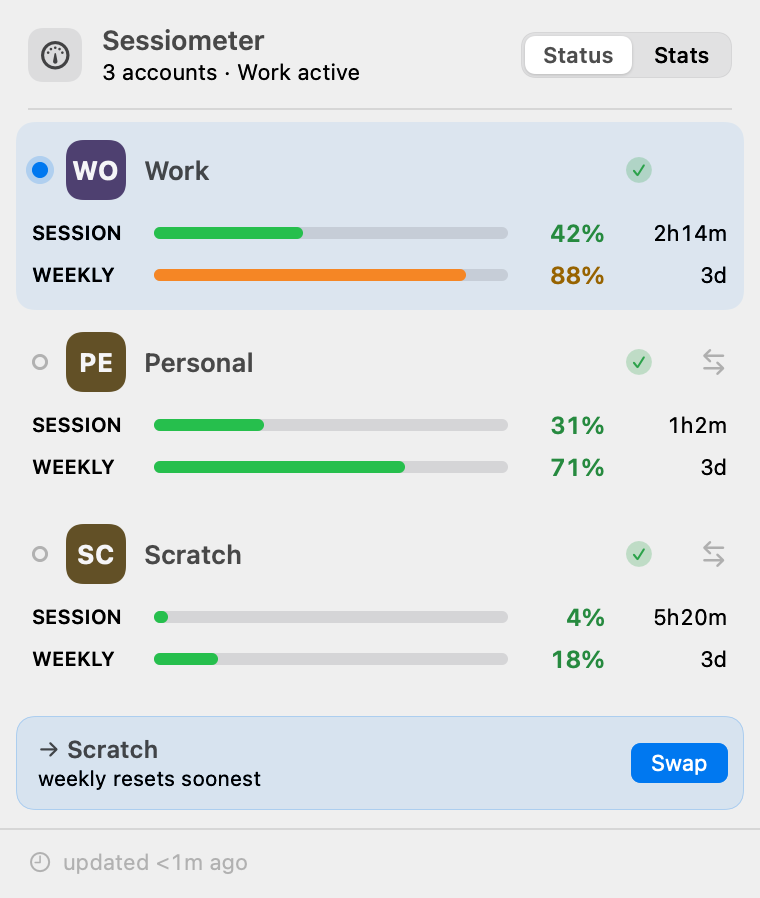
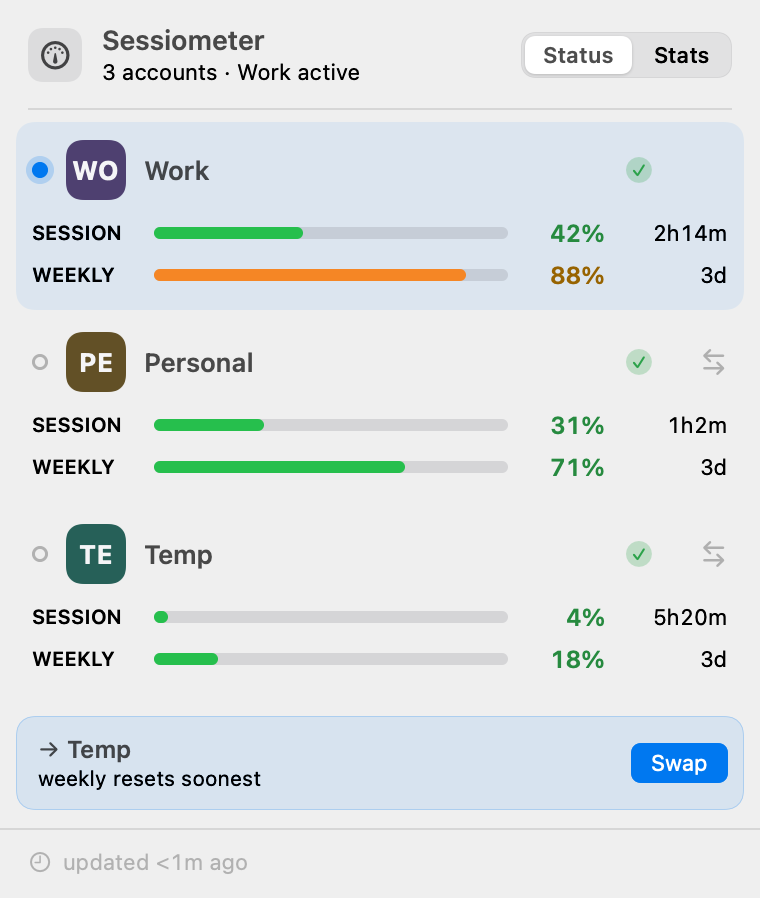
(test) menubar: re-pick the healthy fixture's 3rd label so all three identity colours are distinct (#723)
`RenderPanelTool`'s healthy roster was `Work`/`Personal`/`Scratch`. Per-account
identity colour (#445) is FNV-1a over the trimmed `label` mod the 8-slot
`accountFillPalette`, and under that hash `Personal` and `Scratch` BOTH land on
slot 5 (ochre) — so the committed `panel-healthy-{light,dark}.png` rendered two
of three rows in the same identity colour, a weaker oracle for #445's central
per-account-disambiguation claim than it could be. (Nothing user-facing is wrong:
#445 never uses colour as the sole cue — always paired with the monogram + label,
WCAG 1.4.1 — so the collision is honest app behaviour; the cost is oracle quality.)

Re-pick the fixture's third account `Scratch` -> `Temp`, which hashes to slot 7
(teal) — distinct from Work-violet (slot 0) and Personal-ochre (slot 5) — so the
committed oracle now demonstrates the per-account cue across three visibly-distinct
colours. Applied consistently across the DEBUG render fixtures (`RenderPanelTool`),
the DEBUG stats preview fixture + its decode test (`PanelStatsModel` /
`StatsTests`, whose wire keys must match the roster identities by exact label),
and the design README's roster reference + a new "Expected reconciliations" note.
No production behaviour is touched — the hash/palette in `StatusPanelFormat.swift`
is unchanged; only fixture/test/doc data and the two regenerated PNGs.

The mock (`menubar-preview.html`) keeps its illustrative `Scratch` label — its
[…]

Changed region(s): [[0.0605, 0.5612, 0.3329, 0.6548], [0.0908, 0.8107, 0.2118, 0.8419]]

diff --git a/apps/menubar/Sources/RenderPanelTool.swift b/apps/menubar/Sources/RenderPanelTool.swift
@@ -45,10 +45,13 @@ enum RenderPanelTool {
         let now = Int64(Date().timeIntervalSince1970)
         let day: Int64 = 86_400
 
-        // The mock's "Healthy · Status" example rows (same labels + percents, so the render is directly
-        // comparable): Work active 42/88, Personal 31/71, Scratch 4/18 — next swap → Scratch. The
-        // provider secondary line (#173) and the "Last swap …" footer (#88) are the documented Wave-1
-        // reconciliations and correctly do NOT appear.
+        // The mock's "Healthy · Status" example rows — same percents + layout, so the render is directly
+        // comparable: Work active 42/88, Personal 31/71, Temp 4/18 — next swap → Temp. The third account is
+        // "Temp" where the mock illustrates "Scratch": re-picked so all three labels hash to DISTINCT #445
+        // palette slots (the mock's "Personal" + "Scratch" both land on slot 5 / ochre under the shared 8-slot
+        // label hash), so the committed oracle shows three visibly-distinct identity colours — violet / ochre /
+        // teal (#709). The provider secondary line (#173) and the "Last swap …" footer (#88) are the documented
+        // Wave-1 reconciliations and correctly do NOT appear.
         let rows = [
             AccountRow(label: "Work", isActive: true, isEnabled: true, isQuarantined: false,
                        isRecovering: false, auth: .healthy, sessionPct: 42, weeklyPct: 88,
@@ -58,7 +61,7 @@ enum RenderPanelTool {
                        isRecovering: false, auth: .healthy, sessionPct: 31, weeklyPct: 71,
                        sessionResetsAt: now + 3600 + 2 * 60, weeklyResetsAt: now + 3 * day,
                        weeklyExhausted: false, isNextSwapTarget: false, blindActive: nil),
-            AccountRow(label: "Scratch", isActive: false, isEnabled: true, isQuarantined: false,
+            AccountRow(label: "Temp", isActive: false, isEnabled: true, isQuarantined: false,
                        isRecovering: false, auth: .healthy, sessionPct: 4, weeklyPct: 18,
                        sessionResetsAt: now + 5 * 3600 + 20 * 60, weeklyResetsAt: now + 3 * day,
                        weeklyExhausted: false, isNextSwapTarget: true, blindActive: nil),
@@ -97,14 +100,14 @@ enum RenderPanelTool {
                                            sessionPct: 14, weeklyPct: 100, sessionResetsAt: now + 2 * 3600,
                                            weeklyResetsAt: now + 2 * day + 4 * 3600, weeklyExhausted: true,
                                            isNextSwapTarget: false, blindActive: nil)
-        let exhaustedScratch = AccountRow(label: "Scratch", isActive: false, isEnabled: true,
-                                          isQuarantined: false, isRecovering: false, auth: .healthy,
-                                          sessionPct: 6, weeklyPct: 97, sessionResetsAt: now + 4 * 3600 + 50 * 60,
-                                          weeklyResetsAt: now + 3 * day + 3600, weeklyExhausted: true,
-                                          isNextSwapTarget: false, blindActive: nil)
+        let exhaustedTemp = AccountRow(label: "Temp", isActive: false, isEnabled: true,
+                                       isQuarantined: false, isRecovering: false, auth: .healthy,
+                                       sessionPct: 6, weeklyPct: 97, sessionResetsAt: now + 4 * 3600 + 50 * 60,
+                                       weeklyResetsAt: now + 3 * day + 3600, weeklyExhausted: true,
+                                       isNextSwapTarget: false, blindActive: nil)
         let blindCorneredRows = [blindWork(BlindActive(blindSecs: 1080, lastKnownSessionPct: 92,
                                                        autoProtectionDegraded: true)),
-                                 exhaustedPersonal, exhaustedScratch]
+                                 exhaustedPersonal, exhaustedTemp]
 
         // The panel-rendered states (the fuller 9-state fidelity's remaining facets are #169 siblings).
         // `stale` and `disconnected` retain the last-good roster (disconnected dims it); the account-less
@@ -113,19 +116,19 @@ enum RenderPanelTool {
         // stale as intended.
         let fixtures = [
             Fixture(name: "healthy", state: .connected, rows: rows,
-                    nextSwap: .target(to: "Scratch", reason: .soonestReset(resetsAt: now + 3 * day)),
+                    nextSwap: .target(to: "Temp", reason: .soonestReset(resetsAt: now + 3 * day)),
                     generatedAt: now - 12),
             // #704: the healthy roster's STATS tab — the ONE fixture seeded to `.stats`/`.loaded` (every other
             // renders the Status glance). Reuses the healthy roster so the Stats rows join the same
-            // Work/Personal/Scratch identities (active = Work) the mock's `healthy-stats-*` frames show; the
+            // Work/Personal/Temp identities (active = Work) the mock's `healthy-stats-*` frames show; the
             // loaded series rides `statsWire`. State stays `.connected` because `StatusPanelView` offers the
             // Stats seg only over a live roster (`.connected`/`.stale`) — a Stats tab on a degraded daemon
             // could only fail. `next_swap` is inert here (the Stats tab renders no footer).
             Fixture(name: "stats", state: .connected, rows: rows,
-                    nextSwap: .target(to: "Scratch", reason: .soonestReset(resetsAt: now + 3 * day)),
+                    nextSwap: .target(to: "Temp", reason: .soonestReset(resetsAt: now + 3 * day)),
                     generatedAt: now - 12, statsWire: PanelStatsModel.loadedPreviewFixture),
             Fixture(name: "stale", state: .stale, rows: rows,
-                    nextSwap: .target(to: "Scratch", reason: .soonestReset(resetsAt: now + 3 * day)),
+                    nextSwap: .target(to: "Temp", reason: .soonestReset(resetsAt: now + 3 * day)),
                     generatedAt: now - 5400),
             Fixture(name: "disconnected", state: .disconnected(reason: "the daemon is not responding"),
                     rows: rows, nextSwap: nil, generatedAt: now - 240),
@@ -140,10 +143,10 @@ enum RenderPanelTool {
             // #571: the active-account blind row, OK + DEGRADED — a per-row modifier on a `.connected`
             // snapshot (fresh header/footer), rendered as the held session bar + auto-protection verdict.
             Fixture(name: "blind-ok", state: .connected, rows: blindOKRows,
-                    nextSwap: .target(to: "Scratch", reason: .soonestReset(resetsAt: now + 3 * day)),
+                    nextSwap: .target(to: "Temp", reason: .soonestReset(resetsAt: now + 3 * day)),
                     generatedAt: now - 12),
             Fixture(name: "blind-degraded", state: .connected, rows: blindDegradedRows,
-                    nextSwap: .target(to: "Scratch", reason: .soonestReset(resetsAt: now + 3 * day)),
+                    nextSwap: .target(to: "Temp", reason: .soonestReset(resetsAt: now + 3 * day)),
                     generatedAt: now - 12),
             // #572: the CORNERED blind row — blind + DEGRADED + no viable target. `next_swap` is
             // `.noViableTarget` (every spare weekly-exhausted, capacity back in 2d 4h), the signal the panel
@@ -223,7 +226,7 @@ enum RenderPanelTool {
     private static func faultFixtures(rows: [AccountRow], now: Int64, day: Int64) -> [Fixture] {
         // The healthy next-swap the roster would carry regardless — ranks 3-4 leave swapping alive, and even
         // where the daemon is blocked the panel still states its recommendation.
-        let nextSwap = NextSwap.target(to: "Scratch", reason: .soonestReset(resetsAt: now + 3 * day))
+        let nextSwap = NextSwap.target(to: "Temp", reason: .soonestReset(resetsAt: now + 3 * day))
         func fault(_ name: String, _ apply: (inout Fixture) -> Void) -> Fixture {
             var fixture = Fixture(name: name, state: .connected, rows: rows,
                                   nextSwap: nextSwap, generatedAt: now - 12)

diff --git a/apps/menubar/Sources/PanelStatsModel.swift b/apps/menubar/Sources/PanelStatsModel.swift
@@ -167,12 +167,12 @@ extension PanelStatsModel {
     /// `healthy-stats-{light,dark}` frames (`design/menubar-preview.html`):
     ///   • Work (active, saturated) — session 42 / 100%, weekly 88%, 42 cap-hits
     ///   • Personal (balanced)      — session 31 /  96%, weekly 71%, 11 cap-hits
-    ///   • Scratch (underused)      — session  4 /  22%, weekly 18%,  0 cap-hits
+    ///   • Temp (underused)         — session  4 /  22%, weekly 18%,  0 cap-hits
     ///   • aggregate — "All accounts ≥90% at once — 3 episodes (1h40m) · swaps 28 · last 7 days"
     ///
     /// `StatsWire` is Decodable-only (it mirrors the Rust `src/stats.rs` serializer), so the fixture is the
     /// wire's OWN JSON, DECODED — the exact path the live tab takes, only the bytes are pinned rather than
-    /// socketed. Handles are the roster's CAPITALISED labels ("Work"/"Personal"/"Scratch") so the Stats rows
+    /// socketed. Handles are the roster's CAPITALISED labels ("Work"/"Personal"/"Temp") so the Stats rows
     /// join `RenderPanelTool`'s roster identities — `StatusPanelFormat.orderedStatHandles` matches by exact
     /// label. `StatsTests` guards the decode + the card values, so a fixture that drifts off the wire contract
     /// fails a headless test rather than silently rendering the loading placeholder.
@@ -190,14 +190,14 @@ extension PanelStatsModel {
     /// line for reviewability — inter-token whitespace is legal JSON, so the decoder reads it identically.
     static let statsPreviewFixtureJSON = #"""
     {"schema":1,"window":{"start":1783200000,"end":1783804800,"label":"last 7 days","period":"week"},"accounts":[],"series":[
-    {"start":1783200000,"end":1783286400,"roster":{"swap_count":0,"swaps":{"session":0,"weekly":0,"manual":0,"forced":0,"emergency":0},"all_high_episodes":0,"all_high_secs":0},"accounts":{"Work":{"seen":1,"coverage":1.0,"coverage_class":"complete","session":{"mean":0.25,"peak":0.25,"p95":0.25},"weekly":{"mean":0.0,"peak":0.0,"p95":0.0},"cap_hits":0,"time_at_cap_secs":0,"contribution_share":0.0,"band":"low"},"Personal":{"seen":1,"coverage":1.0,"coverage_class":"complete","session":{"mean":0.12,"peak":0.12,"p95":0.12},"weekly":{"mean":0.0,"peak":0.0,"p95":0.0},"cap_hits":0,"time_at_cap_secs":0,"contribution_share":0.0,"band":"low"},"Scratch":{"seen":1,"coverage":1.0,"coverage_class":"complete","session":{"mean":0.1,"peak":0.1,"p95":0.1},"weekly":{"mean":0.0,"peak":0.0,"p95":0.0},"cap_hits":0,"time_at_cap_secs":0,"contribution_share":0.0,"band":"low"}}},
-    {"start":1783286400,"end":1783372800,"roster":{"swap_count":0,"swaps":{"session":0,"weekly":0,"manual":0,"forced":0,"emergency":0},"all_high_episodes":0,"all_high_secs":0},"accounts":{"Work":{"seen":1,"coverage":1.0,"coverage_class":"complete","session":{"mean":0.5,"peak":0.5,"p95":0.5},"weekly":{"mean":0.0,"peak":0.0,"p95":0.0},"cap_hits":0,"time_at_cap_secs":0,"contribution_share":0.0,"band":"low"},"Personal":{"seen":1,"coverage":1.0,"coverage_class":"complete","session":{"mean":0.37,"peak":0.37,"p95":0.37},"weekly":{"mean":0.0,"peak":0.0,"p95":0.0},"cap_hits":0,"time_at_cap_secs":0,"contribution_share":0.0,"band":"low"},"Scratch":{"seen":1,"coverage":1.0,"coverage_class":"complete","session":{"mean":0.12,"peak":0.12,"p95":0.12},"weekly":{"mean":0.0,"peak":0.0,"p95":0.0},"cap_hits":0,"time_at_cap_secs":0,"contribution_share":0.0,"band":"low"}}},
-    {"start":1783372800,"end":1783459200,"roster":{"swap_count":0,"swaps":{"session":0,"weekly":0,"manual":0,"forced":0,"emergency":0},"all_high_episodes":0,"all_high_secs":0},"accounts":{"Work":{"seen":1,"coverage":1.0,"coverage_class":"complete","session":{"mean":0.75,"peak":0.75,"p95":0.75},"weekly":{"mean":0.0,"peak":0.0,"p95":0.0},"cap_hits":0,"time_at_cap_secs":0,"contribution_share":0.0,"band":"low"},"Personal":{"seen":1,"coverage":1.0,"coverage_class":"complete","session":{"mean":0.55,"peak":0.55,"p95":0.55},"weekly":{"mean":0.0,"peak":0.0,"p95":0.0},"cap_hits":0,"time_at_cap_secs":0,"contribution_share":0.0,"band":"low"},"Scratch":{"seen":1,"coverage":1.0,"coverage_class":"complete","session":{"mean":0.22,"peak":0.22,"p95":0.22},"weekly":{"mean":0.0,"peak":0.0,"p95":0.0},"cap_hits":0,"time_at_cap_secs":0,"contribution_share":0.0,"band":"low"}}},
-    {"start":1783459200,"end":1783545600,"roster":{"swap_count":0,"swaps":{"session":0,"weekly":0,"manual":0,"forced":0,"emergency":0},"all_high_episodes":0,"all_high_secs":0},"accounts":{"Work":{"seen":1,"coverage":1.0,"coverage_class":"complete","session":{"mean":1.0,"peak":1.0,"p95":1.0},"weekly":{"mean":0.0,"peak":0.0,"p95":0.0},"cap_hits":0,"time_at_cap_secs":0,"contribution_share":0.0,"band":"low"},"Personal":{"seen":1,"coverage":1.0,"coverage_class":"complete","session":{"mean":0.96,"peak":0.96,"p95":0.96},"weekly":{"mean":0.0,"peak":0.0,"p95":0.0},"cap_hits":0,"time_at_cap_secs":0,"contribution_share":0.0,"band":"low"},"Scratch":{"seen":1,"coverage":1.0,"coverage_class":"complete","session":{"mean":0.14,"peak":0.14,"p95":0.14},"weekly":{"mean":0.0,"peak":0.0,"p95":0.0},"cap_hits":0,"time_at_cap_secs":0,"contribution_share":0.0,"band":"low"}}},
-    {"start":1783545600,"end":1783632000,"roster":{"swap_count":0,"swaps":{"session":0,"weekly":0,"manual":0,"forced":0,"emergency":0},"all_high_episodes":0,"all_high_secs":0},"accounts":{"Work":{"seen":1,"coverage":1.0,"coverage_class":"complete","session":{"mean":1.0,"peak":1.0,"p95":1.0},"weekly":{"mean":0.0,"peak":0.0,"p95":0.0},"cap_hits":0,"time_at_cap_secs":0,"contribution_share":0.0,"band":"low"},"Personal":{"seen":1,"coverage":1.0,"coverage_class":"complete","session":{"mean":0.7,"peak":0.7,"p95":0.7},"weekly":{"mean":0.0,"peak":0.0,"p95":0.0},"cap_hits":0,"time_at_cap_secs":0,"contribution_share":0.0,"band":"low"},"Scratch":{"seen":1,"coverage":1.0,"coverage_class":"complete","session":{"mean":0.12,"peak":0.12,"p95":0.12},"weekly":{"mean":0.0,"peak":0.0,"p95":0.0},"cap_hits":0,"time_at_cap_secs":0,"contribution_share":0.0,"band":"low"}}},
-    {"start":1783632000,"end":1783718400,"roster":{"swap_count":0,"swaps":{"session":0,"weekly":0,"manual":0,"forced":0,"emergency":0},"all_high_episodes":0,"all_high_secs":0},"accounts":{"Work":{"seen":1,"coverage":1.0,"coverage_class":"complete","session":{"mean":0.87,"peak":0.87,"p95":0.87},"weekly":{"mean":0.0,"peak":0.0,"p95":0.0},"cap_hits":0,"time_at_cap_secs":0,"contribution_share":0.0,"band":"low"},"Personal":{"seen":1,"coverage":1.0,"coverage_class":"complete","session":{"mean":0.55,"peak":0.55,"p95":0.55},"weekly":{"mean":0.0,"peak":0.0,"p95":0.0},"cap_hits":0,"time_at_cap_secs":0,"contribution_share":0.0,"band":"low"},"Scratch":{"seen":1,"coverage":1.0,"coverage_class":"complete","session":{"mean":0.11,"peak":0.11,"p95":0.11},"weekly":{"mean":0.0,"peak":0.0,"p95":0.0},"cap_hits":0,"time_at_cap_secs":0,"contribution_share":0.0,"band":"low"}}},
-    {"start":1783718400,"end":1783804800,"roster":{"swap_count":0,"swaps":{"session":0,"weekly":0,"manual":0,"forced":0,"emergency":0},"all_high_episodes":0,"all_high_secs":0},"accounts":{"Work":{"seen":1,"coverage":1.0,"coverage_class":"complete","session":{"mean":0.75,"peak":0.75,"p95":0.75},"weekly":{"mean":0.0,"peak":0.0,"p95":0.0},"cap_hits":0,"time_at_cap_secs":0,"contribution_share":0.0,"band":"low"},"Personal":{"seen":1,"coverage":1.0,"coverage_class":"complete","session":{"mean":0.4,"peak":0.4,"p95":0.4},"weekly":{"mean":0.0,"peak":0.0,"p95":0.0},"cap_hits":0,"time_at_cap_secs":0,"contribution_share":0.0,"band":"low"},"Scratch":{"seen":1,"coverage":1.0,"coverage_class":"complete","session":{"mean":0.12,"peak":0.12,"p95":0.12},"weekly":{"mean":0.0,"peak":0.0,"p95":0.0},"cap_hits":0,"time_at_cap_secs":0,"contribution_share":0.0,"band":"low"}}}
-    ],"summary":{"roster":{"swap_count":28,"swaps":{"session":19,"weekly":5,"manual":3,"forced":1,"emergency":0},"all_high_episodes":3,"all_high_secs":6000},"accounts":{"Work":{"seen":7,"coverage":1.0,"coverage_class":"complete","session":{"mean":0.42,"peak":1.0,"p95":0.95},"weekly":{"mean":0.6,"peak":0.88,"p95":0.85},"cap_hits":42,"time_at_cap_secs":5400,"contribution_share":0.62,"band":"at_cap"},"Personal":{"seen":7,"coverage":1.0,"coverage_class":"complete","session":{"mean":0.31,"peak":0.96,"p95":0.9},"weekly":{"mean":0.5,"peak":0.71,"p95":0.68},"cap_hits":11,"time_at_cap_secs":900,"contribution_share":0.28,"band":"moderate"},"Scratch":{"seen":7,"coverage":1.0,"coverage_class":"complete","session":{"mean":0.04,"peak":0.22,"p95":0.2},"weekly":{"mean":0.1,"peak":0.18,"p95":0.16},"cap_hits":0,"time_at_cap_secs":0,"contribution_share":0.1,"band":"low"}}}}
+    {"start":1783200000,"end":1783286400,"roster":{"swap_count":0,"swaps":{"session":0,"weekly":0,"manual":0,"forced":0,"emergency":0},"all_high_episodes":0,"all_high_secs":0},"accounts":{"Work":{"seen":1,"coverage":1.0,"coverage_class":"complete","session":{"mean":0.25,"peak":0.25,"p95":0.25},"weekly":{"mean":0.0,"peak":0.0,"p95":0.0},"cap_hits":0,"time_at_cap_secs":0,"contribution_share":0.0,"band":"low"},"Personal":{"seen":1,"coverage":1.0,"coverage_class":"complete","session":{"mean":0.12,"peak":0.12,"p95":0.12},"weekly":{"mean":0.0,"peak":0.0,"p95":0.0},"cap_hits":0,"time_at_cap_secs":0,"contribution_share":0.0,"band":"low"},"Temp":{"seen":1,"coverage":1.0,"coverage_class":"complete","session":{"mean":0.1,"peak":0.1,"p95":0.1},"weekly":{"mean":0.0,"peak":0.0,"p95":0.0},"cap_hits":0,"time_at_cap_secs":0,"contribution_share":0.0,"band":"low"}}},
+    {"start":1783286400,"end":1783372800,"roster":{"swap_count":0,"swaps":{"session":0,"weekly":0,"manual":0,"forced":0,"emergency":0},"all_high_episodes":0,"all_high_secs":0},"accounts":{"Work":{"seen":1,"coverage":1.0,"coverage_class":"complete","session":{"mean":0.5,"peak":0.5,"p95":0.5},"weekly":{"mean":0.0,"peak":0.0,"p95":0.0},"cap_hits":0,"time_at_cap_secs":0,"contribution_share":0.0,"band":"low"},"Personal":{"seen":1,"coverage":1.0,"coverage_class":"complete","session":{"mean":0.37,"peak":0.37,"p95":0.37},"weekly":{"mean":0.0,"peak":0.0,"p95":0.0},"cap_hits":0,"time_at_cap_secs":0,"contribution_share":0.0,"band":"low"},"Temp":{"seen":1,"coverage":1.0,"coverage_class":"complete","session":{"mean":0.12,"peak":0.12,"p95":0.12},"weekly":{"mean":0.0,"peak":0.0,"p95":0.0},"cap_hits":0,"time_at_cap_secs":0,"contribution_share":0.0,"band":"low"}}},
+    {"start":1783372800,"end":1783459200,"roster":{"swap_count":0,"swaps":{"session":0,"weekly":0,"manual":0,"forced":0,"emergency":0},"all_high_episodes":0,"all_high_secs":0},"accounts":{"Work":{"seen":1,"coverage":1.0,"coverage_class":"complete","session":{"mean":0.75,"peak":0.75,"p95":0.75},"weekly":{"mean":0.0,"peak":0.0,"p95":0.0},"cap_hits":0,"time_at_cap_secs":0,"contribution_share":0.0,"band":"low"},"Personal":{"seen":1,"coverage":1.0,"coverage_class":"complete","session":{"mean":0.55,"peak":0.55,"p95":0.55},"weekly":{"mean":0.0,"peak":0.0,"p95":0.0},"cap_hits":0,"time_at_cap_secs":0,"contribution_share":0.0,"band":"low"},"Temp":{"seen":1,"coverage":1.0,"coverage_class":"complete","session":{"mean":0.22,"peak":0.22,"p95":0.22},"weekly":{"mean":0.0,"peak":0.0,"p95":0.0},"cap_hits":0,"time_at_cap_secs":0,"contribution_share":0.0,"band":"low"}}},
+    {"start":1783459200,"end":1783545600,"roster":{"swap_count":0,"swaps":{"session":0,"weekly":0,"manual":0,"forced":0,"emergency":0},"all_high_episodes":0,"all_high_secs":0},"accounts":{"Work":{"seen":1,"coverage":1.0,"coverage_class":"complete","session":{"mean":1.0,"peak":1.0,"p95":1.0},"weekly":{"mean":0.0,"peak":0.0,"p95":0.0},"cap_hits":0,"time_at_cap_secs":0,"contribution_share":0.0,"band":"low"},"Personal":{"seen":1,"coverage":1.0,"coverage_class":"complete","session":{"mean":0.96,"peak":0.96,"p95":0.96},"weekly":{"mean":0.0,"peak":0.0,"p95":0.0},"cap_hits":0,"time_at_cap_secs":0,"contribution_share":0.0,"band":"low"},"Temp":{"seen":1,"coverage":1.0,"coverage_class":"complete","session":{"mean":0.14,"peak":0.14,"p95":0.14},"weekly":{"mean":0.0,"peak":0.0,"p95":0.0},"cap_hits":0,"time_at_cap_secs":0,"contribution_share":0.0,"band":"low"}}},
+    {"start":1783545600,"end":1783632000,"roster":{"swap_count":0,"swaps":{"session":0,"weekly":0,"manual":0,"forced":0,"emergency":0},"all_high_episodes":0,"all_high_secs":0},"accounts":{"Work":{"seen":1,"coverage":1.0,"coverage_class":"complete","session":{"mean":1.0,"peak":1.0,"p95":1.0},"weekly":{"mean":0.0,"peak":0.0,"p95":0.0},"cap_hits":0,"time_at_cap_secs":0,"contribution_share":0.0,"band":"low"},"Personal":{"seen":1,"coverage":1.0,"coverage_class":"complete","session":{"mean":0.7,"peak":0.7,"p95":0.7},"weekly":{"mean":0.0,"peak":0.0,"p95":0.0},"cap_hits":0,"time_at_cap_secs":0,"contribution_share":0.0,"band":"low"},"Temp":{"seen":1,"coverage":1.0,"coverage_class":"complete","session":{"mean":0.12,"peak":0.12,"p95":0.12},"weekly":{"mean":0.0,"peak":0.0,"p95":0.0},"cap_hits":0,"time_at_cap_secs":0,"contribution_share":0.0,"band":"low"}}},
+    {"start":1783632000,"end":1783718400,"roster":{"swap_count":0,"swaps":{"session":0,"weekly":0,"manual":0,"forced":0,"emergency":0},"all_high_episodes":0,"all_high_secs":0},"accounts":{"Work":{"seen":1,"coverage":1.0,"coverage_class":"complete","session":{"mean":0.87,"peak":0.87,"p95":0.87},"weekly":{"mean":0.0,"peak":0.0,"p95":0.0},"cap_hits":0,"time_at_cap_secs":0,"contribution_share":0.0,"band":"low"},"Personal":{"seen":1,"coverage":1.0,"coverage_class":"complete","session":{"mean":0.55,"peak":0.55,"p95":0.55},"weekly":{"mean":0.0,"peak":0.0,"p95":0.0},"cap_hits":0,"time_at_cap_secs":0,"contribution_share":0.0,"band":"low"},"Temp":{"seen":1,"coverage":1.0,"coverage_class":"complete","session":{"mean":0.11,"peak":0.11,"p95":0.11},"weekly":{"mean":0.0,"peak":0.0,"p95":0.0},"cap_hits":0,"time_at_cap_secs":0,"contribution_share":0.0,"band":"low"}}},
+    {"start":1783718400,"end":1783804800,"roster":{"swap_count":0,"swaps":{"session":0,"weekly":0,"manual":0,"forced":0,"emergency":0},"all_high_episodes":0,"all_high_secs":0},"accounts":{"Work":{"seen":1,"coverage":1.0,"coverage_class":"complete","session":{"mean":0.75,"peak":0.75,"p95":0.75},"weekly":{"mean":0.0,"peak":0.0,"p95":0.0},"cap_hits":0,"time_at_cap_secs":0,"contribution_share":0.0,"band":"low"},"Personal":{"seen":1,"coverage":1.0,"coverage_class":"complete","session":{"mean":0.4,"peak":0.4,"p95":0.4},"weekly":{"mean":0.0,"peak":0.0,"p95":0.0},"cap_hits":0,"time_at_cap_secs":0,"contribution_share":0.0,"band":"low"},"Temp":{"seen":1,"coverage":1.0,"coverage_class":"complete","session":{"mean":0.12,"peak":0.12,"p95":0.12},"weekly":{"mean":0.0,"peak":0.0,"p95":0.0},"cap_hits":0,"time_at_cap_secs":0,"contribution_share":0.0,"band":"low"}}}
+    ],"summary":{"roster":{"swap_count":28,"swaps":{"session":19,"weekly":5,"manual":3,"forced":1,"emergency":0},"all_high_episodes":3,"all_high_secs":6000},"accounts":{"Work":{"seen":7,"coverage":1.0,"coverage_class":"complete","session":{"mean":0.42,"peak":1.0,"p95":0.95},"weekly":{"mean":0.6,"peak":0.88,"p95":0.85},"cap_hits":42,"time_at_cap_secs":5400,"contribution_share":0.62,"band":"at_cap"},"Personal":{"seen":7,"coverage":1.0,"coverage_class":"complete","session":{"mean":0.31,"peak":0.96,"p95":0.9},"weekly":{"mean":0.5,"peak":0.71,"p95":0.68},"cap_hits":11,"time_at_cap_secs":900,"contribution_share":0.28,"band":"moderate"},"Temp":{"seen":7,"coverage":1.0,"coverage_class":"complete","session":{"mean":0.04,"peak":0.22,"p95":0.2},"weekly":{"mean":0.1,"peak":0.18,"p95":0.16},"cap_hits":0,"time_at_cap_secs":0,"contribution_share":0.1,"band":"low"}}}}
     """#
 }
 #endif

diff --git a/apps/menubar/Tests/StatsTests.swift b/apps/menubar/Tests/StatsTests.swift
@@ -511,12 +511,12 @@ final class StatsTests: XCTestCase {
             return XCTFail("the stats preview fixture did not decode to a StatsWire")
         }
         // The three cards, keyed by the CAPITALISED roster labels RenderPanelTool's rows carry — so the
-        // case-sensitive `orderedStatHandles` join lands them in Work / Personal / Scratch order.
-        XCTAssertEqual(Set(wire.summary.accounts.keys), ["Work", "Personal", "Scratch"])
+        // case-sensitive `orderedStatHandles` join lands them in Work / Personal / Temp order.
+        XCTAssertEqual(Set(wire.summary.accounts.keys), ["Work", "Personal", "Temp"])
         // Bands → the mock's three signal pills.
         XCTAssertEqual(StatusPanelFormat.statsSignal(try XCTUnwrap(wire.summary.accounts["Work"]).band), .saturated)
         XCTAssertEqual(StatusPanelFormat.statsSignal(try XCTUnwrap(wire.summary.accounts["Personal"]).band), .balanced)
-        XCTAssertEqual(StatusPanelFormat.statsSignal(try XCTUnwrap(wire.summary.accounts["Scratch"]).band), .underused)
+        XCTAssertEqual(StatusPanelFormat.statsSignal(try XCTUnwrap(wire.summary.accounts["Temp"]).band), .underused)
         // The displayed numeric body matches the mock's active Work card verbatim.
         let work = try XCTUnwrap(wire.summary.accounts["Work"])
         XCTAssertEqual(StatusPanelFormat.statsSessionMeanPeak(work), "42 / 100%")

diff --git a/apps/menubar/design/README.md b/apps/menubar/design/README.md
@@ -47,7 +47,7 @@ BIN=".build/xcode/Build/Products/Debug/Sessiometer.app/Contents/MacOS/Sessiomete
 
 Output: `renders/panel-healthy-{light,dark}.png` — the built app (distinct from `all-states.png`,
 which is the mock). These are safe to commit: `RenderPanelTool` pins a fixture roster (`Work` /
-`Personal` / `Scratch`), and the wire carries only the operator-chosen label, never an email (#15).
+`Personal` / `Temp`), and the wire carries only the operator-chosen label, never an email (#15).
 Light shown here:
 
 ![Built panel — healthy, light](renders/panel-healthy-light.png)
@@ -64,6 +64,12 @@ Light shown here:
   hover/focus), which the mock now specs (the resting chip on every switchable row); at rest the row
   keeps a trailing action slot for it, which is why the auth glyph sits ~37 pt further left than in the
   mock (the #448-widened 28 pt slot + its 9 pt spacing)
+- the third fixture account is `Temp`, where the mock illustrates `Scratch` — re-picked (#709) so all
+  three healthy labels hash to **distinct** #445 identity slots (the mock's `Personal` and `Scratch`
+  both land on slot 5 / ochre under the shared 8-slot `label` hash, so the built roster would otherwise
+  render two of three rows in one colour). The committed oracle now demonstrates the per-account cue
+  across three visibly-distinct colours — violet / ochre / teal — not two; the hues are hash-derived
+  and, like every colour here, needn't match the mock's illustrative ones
 
 (Capture placement is now reconciled with the mock, not a difference: the **populated** panel carries
 no capture bar — capture is **empty-roster / first-run only**, and Add account lives off-panel in the